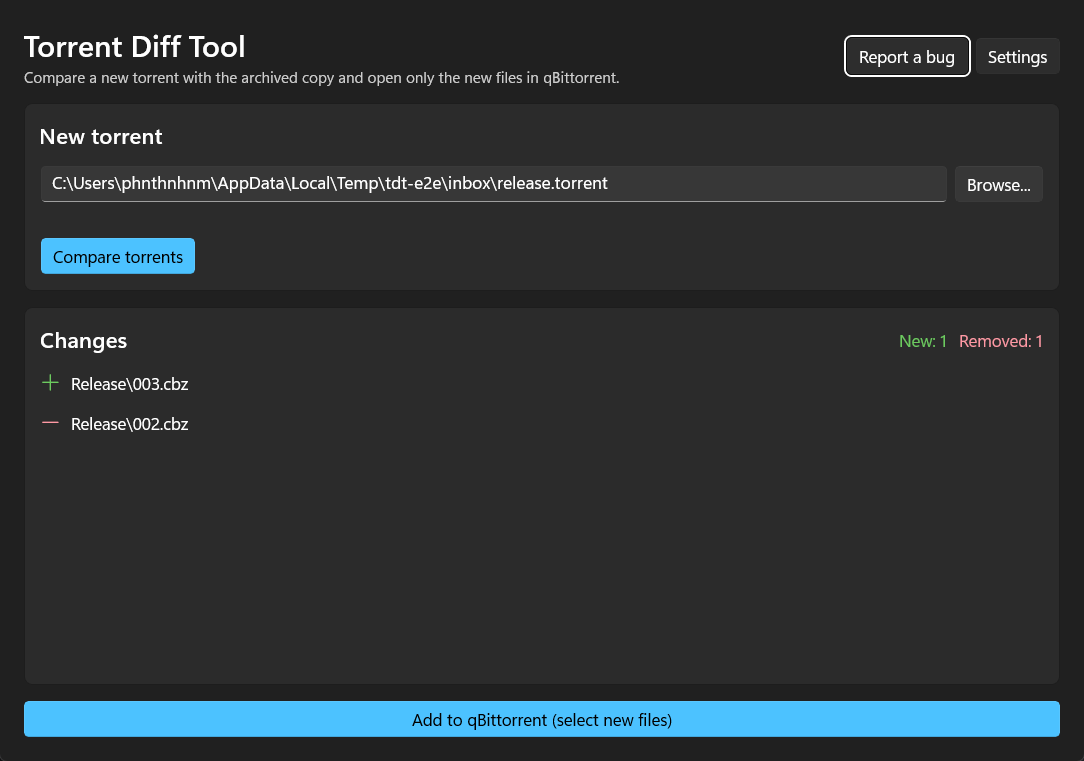
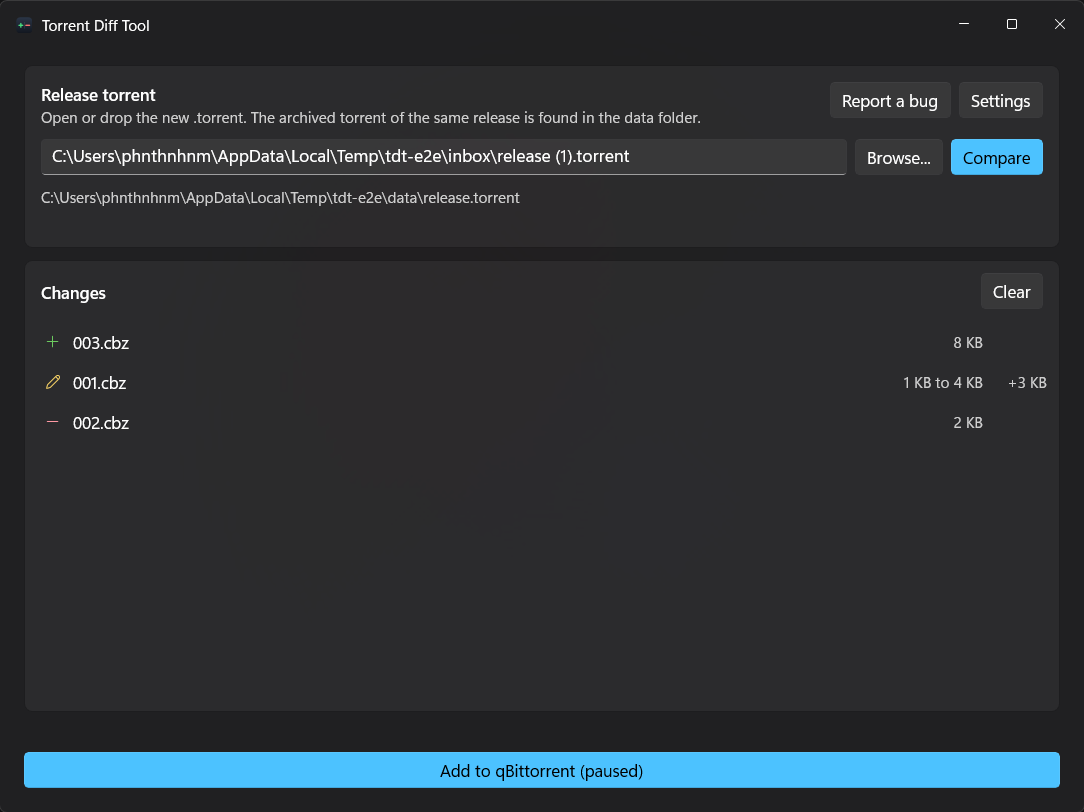
docs: describe the three-way diff and the native shell
The README still described a two-way comparison and a fixed window, and the
screenshots showed the old layout.

- explain added, removed and changed files and what ends up being downloaded
- document drag and drop, the shortcuts, the connection test and the
  remembered window bounds
- record the settings keys including window, and that an unreadable file is
  kept aside instead of overwritten
- refresh the screenshots and add the logo the README points at

diff --git a/README.md b/README.md
@@ -2,35 +2,45 @@
 
 [![CI](https://github.com/phnthnhnm/tdt/actions/workflows/ci.yml/badge.svg)](https://github.com/phnthnhnm/tdt/actions/workflows/ci.yml)
 
-A Windows app that shows which files a new `.torrent` adds or removes compared
-with the archived torrent of the same release, then hands only the new files to
-qBittorrent.
+<img src="docs/logo.png" width="72" alt="Torrent Diff Tool" />
 
-![Comparing two torrents](docs/screenshots/diff.png)
+A Windows app that shows which files a new `.torrent` adds, removes or replaces
+compared with the archived torrent of the same release, then hands only the files
+that need downloading to qBittorrent.
+
+![Comparing a release with its archived torrent](docs/screenshots/diff.png)
 
 ![qBittorrent settings](docs/screenshots/settings.png)
 
 ## Why
 
-Releases get re-packaged with a few chapters added and a few removed. Downloading
-the whole torrent again wastes bandwidth and disk, and qBittorrent cannot compare
-two torrent files. Torrent Diff Tool keeps the old `.torrent` next to your
-downloads, diffs the file lists, and selects only the files that are actually new.
+Releases get re-packaged with a few chapters added, replaced or removed.
+Downloading everything again wastes bandwidth and disk, and qBittorrent cannot
+compare two torrent files. Torrent Diff Tool keeps the old `.torrent` next to
+your downloads, diffs the file lists, and selects only what actually changed.
 
 ## Features
 
-- File-level diff of two torrents: additions and removals side by side, in one
-  list with counts.
-- One command adds the new torrent to qBittorrent **paused** and selects only the
-  new files — everything else stays at priority 0.
-- Blacklist substrings (samples, extras, and so on) are never selected, and are
-  listed in the confirmation dialog.
-- qBittorrent authentication with a form login or a 5.2+ API key, HTTP or HTTPS.
-- System, light and dark themes, applied to every open window immediately.
+- Three-way file diff: **added**, **removed** and **changed** (same path,
+  different size), with sizes and deltas.
+- The archived torrent is found automatically: same file name first, then the
+  same torrent name in the data folder, so a browser download named
+  `release (1).torrent` still matches.
+- Drag a `.torrent` onto the window, or use Ctrl+O.
+- One command adds the release to qBittorrent **paused** and selects only the
+  added and changed files; everything else stays at priority 0.
+- Blacklist substrings (samples, extras, ...) are never selected and are listed
+  in the confirmation dialog.
+- **Test connection** in the settings checks the WebUI credentials before you
+  need them; API key (qBittorrent 5.2+) or form login, HTTP or HTTPS.
+- System, light and dark themes, including the title bar caption buttons.
 - Settings are a single JSON file; the qBittorrent password and API key are
   encrypted with Windows DPAPI before they touch disk.
-- Timestamped settings backup and restore.
-- Single instance per session; Windows 11 styling (Mica-free, standard title bar).
+- Timestamped settings backup and restore; a settings file that cannot be read is
+  kept beside the original instead of being overwritten.
+- Native Windows 11 look: Mica backdrop, custom title bar, standard settings
+  cards, remembered window size and position.
+- Single instance per session.
 
 ## Requirements
 
@@ -65,35 +75,36 @@ confirmation the first time. Choose "More info" and then "Run anyway".
 
 1. Open **Settings → Data** and choose the folder where you keep the previously
    downloaded `.torrent` files.
-2. Open **Settings → qBittorrent** and enter the WebUI host and port with either
-   the username and password or an API key. Save.
-3. Click **Browse…** and pick the new `.torrent`.
-4. Click **Compare torrents**. The list shows every added and removed file.
-5. If files were added, click **Add to qBittorrent (select new files)**, review
-   the confirmation, and confirm.
+2. Open **Settings → qBittorrent**, enter the WebUI host and port with either the
+   username and password or an API key, and press **Test connection**.
+3. Open the new `.torrent` with **Browse…**, Ctrl+O or drag and drop. The
+   comparison runs immediately.
+4. Review the changes, then press **Add to qBittorrent (paused)**.
 
-The old version is found by file name: the new `release.torrent` is compared with
-`<data folder>\release.torrent`. Keep the name of the torrent file when you save
-it.
+### Keyboard shortcuts
 
-### Blacklist
-
-Files whose torrent path contains a blacklisted substring are never selected.
-The default is empty; add entries such as `sample` or `extras` in
-**Settings → qBittorrent**. Matching is case-insensitive and applies to the full
-path inside the torrent.
+| Shortcut | Action |
+| --- | --- |
+| `Ctrl+O` | Browse for a torrent |
+| `Ctrl+Enter` | Compare again |
+| `Esc` | Clear the comparison |
 
 ## How the comparison works
 
-- A torrent entry is identified by its path: the torrent name followed by each
-  path segment. Two torrents with the same files but different root names
-  therefore diff as a complete replacement.
-- The diff is a set difference over those paths: additions are paths only in the
-  new torrent, removals are paths only in the old one. Both lists are sorted.
-- Equal paths with different sizes are not reported, and renames appear as one
-  removal plus one addition.
-- qBittorrent reports content paths that do not include the torrent root, so the
-  selection step matches added files by file name.
+- A file is identified by its path **relative to the torrent root**, so a release
+  that only renamed the root directory still compares cleanly.
+- Added files exist only in the new torrent, removed files only in the archived
+  one. A path present in both with a different size is a **change**: the release
+  replaced the file, so it is downloaded again.
+- Comparison is ordinal, so `001.CBZ` and `001.cbz` are different files.
+- The archived torrent is looked up by file name first. If that misses, the data
+  folder is scanned (up to 400 torrents, newest first) for a torrent with the same
+  root name and a different info hash.
+- The info hash is computed from the torrent, so the qBittorrent row is found
+  exactly even if two torrents share a display name.
+- qBittorrent reports content paths prefixed with the torrent root; the selection
+  strips the root and compares case-insensitively, which keeps sibling folders
+  such as `CD1/001.cbz` and `CD2/001.cbz` apart.
 
 ## Settings and data
 
@@ -112,15 +123,18 @@ Settings live in a single file:
 | `qbittorrent.apiKey` | 5.2+ API key; when set, form login is never used |
 | `qbittorrent.useHttps` | Use HTTPS for the WebUI |
 | `qbittorrent.blacklist` | Substrings that are never selected |
+| `window` | Last window size and position |
 
 The password and the API key are encrypted with DPAPI for the current Windows
 account, so a copied settings file cannot be read on another account or machine.
 For the same reason, restoring a backup on a different account keeps the other
 settings but requires the credentials to be entered again.
 
-**Settings → Data** can export the file to a timestamped JSON backup, restore it,
-or reset every setting. Restoring validates the file before it replaces the
-current settings.
+A settings file that cannot be read is **not** overwritten: it is moved aside as
+`settings.corrupt-<timestamp>.json` (or `settings.newer-<timestamp>.json` when it
+was written by a newer version) and the app starts with defaults. **Settings →
+Data** can export the file to a timestamped JSON backup, restore it, or reset
+every setting. Restoring validates the file before it replaces anything.
 
 ## Development
 
@@ -135,11 +149,6 @@ dotnet restore tdt.slnx
 dotnet build tdt.slnx -c Debug
 dotnet test tdt.slnx
 dotnet format tdt.slnx --verify-no-changes
-```
-
-Run the app:
-
-```bash
 dotnet run --project src/Tdt.App
 ```
 
@@ -163,23 +172,20 @@ resulting app dies at startup. Either build the standalone first, or delete
 `src/Tdt.App/obj` between the two commands. CI and the release workflow publish
 each mode in its own job for this reason.
 
-The portable archive is small because it uses the runtimes installed on the
-machine; the standalone archive is about 90 MB because it bundles the .NET and
-Windows App SDK runtimes so users need no prerequisites.
-
 ### Layout
 
 ```
 src/Tdt.Core      torrent parsing, diffing, qBittorrent client, settings
 src/Tdt.App       WinUI 3 UI, view models, platform services
 tests/            xUnit tests for Tdt.Core
-docs/screenshots  README images
+docs/             logo and README screenshots
 ```
 
-`Tdt.Core` has no UI dependency; the WinUI project only adds the views, the view
-models and the platform glue. All HTTP requests go through a handler that logs
-the method, URL and status only, never headers, so credentials cannot leak into a
-log.
+`Tdt.Core` has no UI dependency. It owns the bencode parser, the info hash, the
+three-way diff, the archived-torrent lookup, the qBittorrent client and session,
+and the settings store. The WinUI project adds the views, the view models and the
+platform glue. All HTTP requests go through a handler that logs the method, URL
+and status only, never headers, so credentials cannot leak into a log.
 
 ## Release process
 
@@ -195,33 +201,37 @@ git push origin v0.2.0
 
 1. checks out the tag and stamps its version into the executable
    (`-p:Version=0.2.0`),
-2. publishes the portable and the standalone build,
+2. publishes the portable and the standalone build in separate jobs,
 3. verifies that both contain `tdt.exe` and `tdt.pri`,
-4. creates the GitHub release with generated notes if it does not exist yet, and
-   attaches `tdt-<version>-windows-x64.zip` and
+4. creates the GitHub release with notes generated from the commits since the
+   previous tag, and attaches
+   `tdt-<version>-windows-x64.zip` and
    `tdt-<version>-windows-x64-standalone.zip`.
 
 The workflow uses the built-in `GITHUB_TOKEN`, so no repository secret is
-needed. Re-running it for an existing tag replaces the assets. `ci.yml` builds
-both archives on every qualifying push to `main`, so a broken publish is caught
-before a tag is created.
+needed. Re-running it for an existing tag rewrites the notes and replaces the
+assets. `ci.yml` builds both archives on every qualifying push to `main`, so a
+broken publish is caught before a tag is created. Dependabot opens weekly pull
+requests for NuGet packages and GitHub Actions.
 
 The tag is the only source of truth for the version; there is no version file to
-bump.
+bump. Tags are signed, so `git tag` needs `-a -m`.
 
 ## Troubleshooting
 
 | Symptom | Fix |
 | --- | --- |
 | "Data folder not set in Settings" | Choose the folder in Settings → Data |
-| "No matching old torrent found in data folder" | The old `.torrent` must have the same file name and live in the configured folder |
+| "No archived torrent found for this release" | Put the old `.torrent` in the data folder; it matches by file name or by torrent name |
+| "The data folder does not exist" | The configured folder was moved or deleted; choose it again |
 | "qBittorrent settings not configured" | Enter the host and port in Settings → qBittorrent |
-| "qBittorrent error: qBittorrent login failed (403)" | Check the username and password, or use an API key |
-| The torrent was added but everything is paused | That is intended: the app pauses and selects only the new files |
-| Nothing is selected | The added paths may be blacklisted, or the torrents differ only by root name |
+| "qBittorrent error: qBittorrent login failed (403)" | Check the username and password, or use an API key; **Test connection** reports the same result |
+| The torrent was added but everything is paused | That is intended: the app pauses and selects only the changed files |
+| Nothing is selected | The changed paths may be blacklisted |
+| A file I did not expect is downloading | It changed size in the release, so it is treated as replaced |
 | SmartScreen blocks the app | The build is unsigned; use "More info" → "Run anyway" |
 | The small archive fails to start | Install the .NET 11 Desktop Runtime and Windows App Runtime 2.6, or use the standalone archive |
-| The app does not start | Run it from its own folder; the archive must be extracted, not run from inside the zip |
+| Settings were reset after a crash | The unreadable file was kept as `settings.corrupt-<timestamp>.json` in `%APPDATA%\Tdt` |
 
 ## License
 
